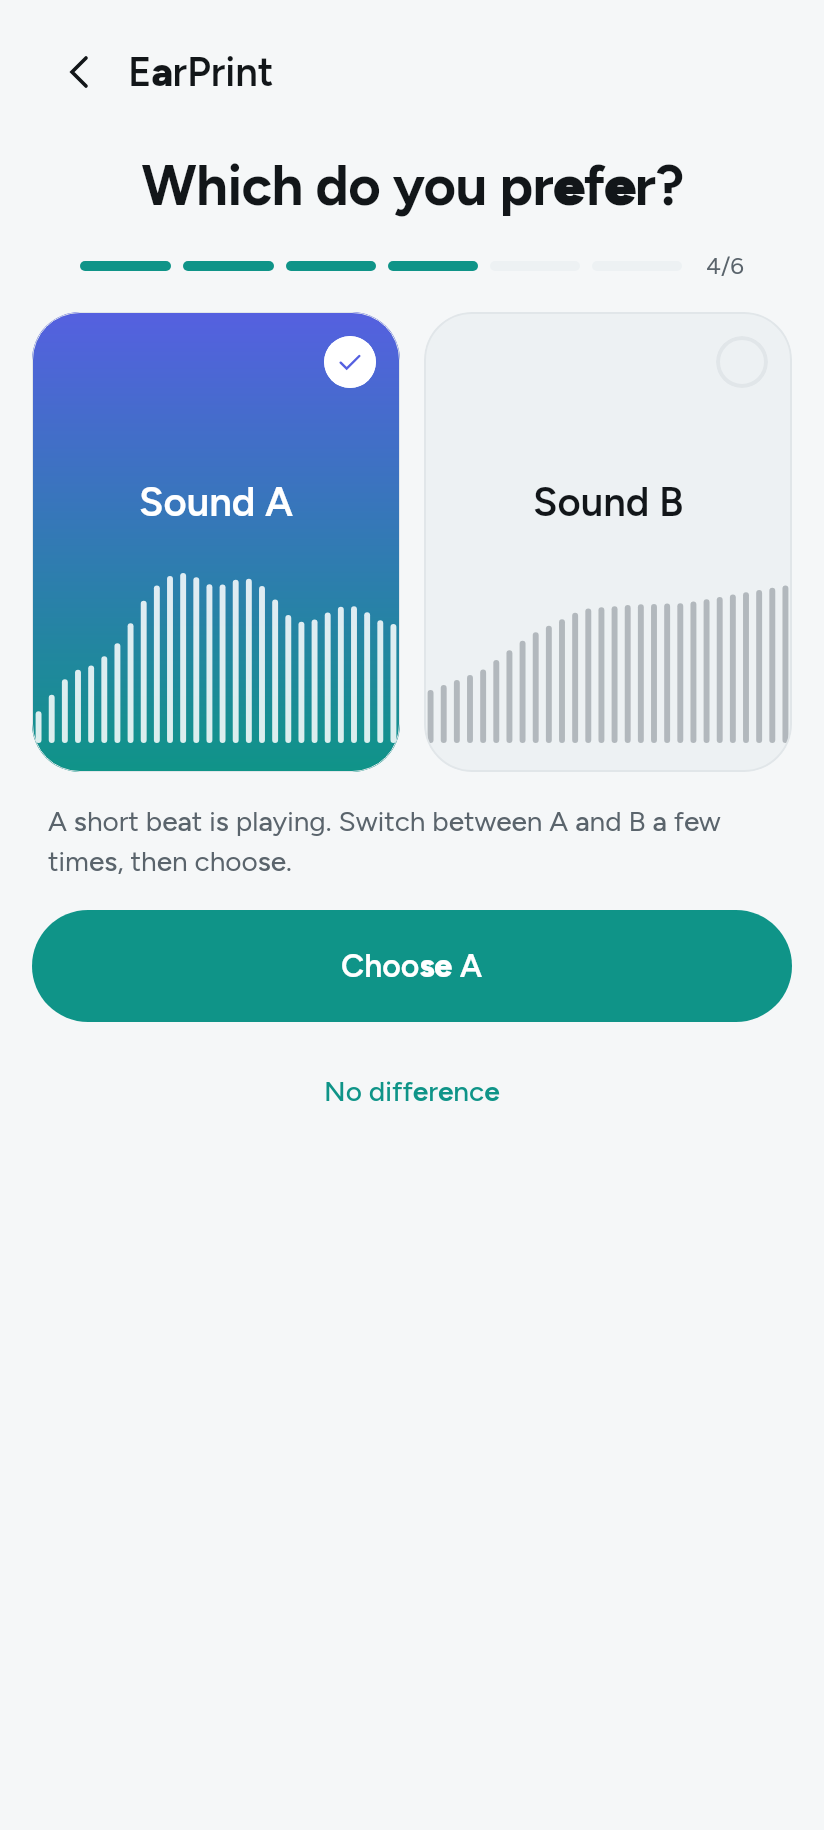
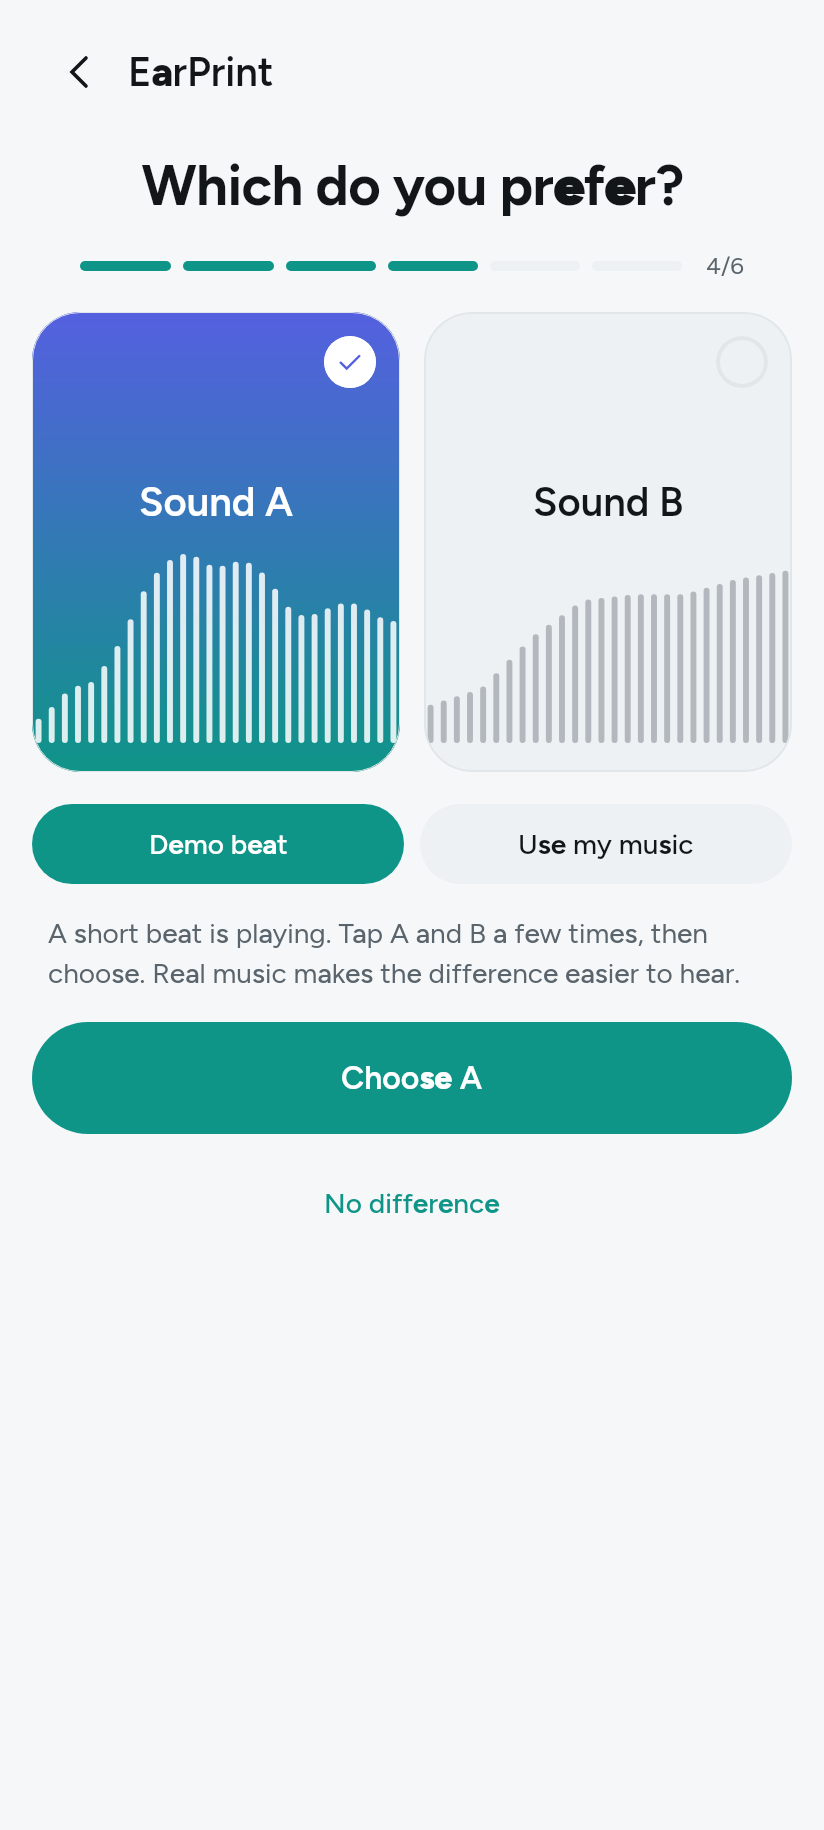
EarPrint: Both ears during the beeps, a choice of the demo beat or your own music in any app for the taste rounds, one line on the result when both ears match; the 60 dB quiet limit Soundcore uses

diff --git a/ui/src/commonMain/kotlin/com/blazify/buds/ui/screens/EarPrintScreen.kt b/ui/src/commonMain/kotlin/com/blazify/buds/ui/screens/EarPrintScreen.kt
@@ -102,9 +102,12 @@ fun EarPrintScreen(state: BudsState, change: (Change) -> Unit, back: () -> Unit,
     // The beat for the taste rounds takes a moment to make, so it is made in the background from the start.
     var beat by remember { mutableStateOf<ShortArray?>(null) }
     LaunchedEffect(Unit) { beat = withContext(Dispatchers.Default) { TestSounds.demo() } }
-    LaunchedEffect(stage == Stage.Taste || stage == Stage.Result, beat) {
+    // The taste rounds play over the beat, or over the person's own music playing in any app.
+    var ownMusic by remember { mutableStateOf(false) }
+    LaunchedEffect(stage == Stage.Taste || stage == Stage.Result, beat, ownMusic) {
         val samples = beat
-        if ((stage == Stage.Taste || stage == Stage.Result) && samples != null) sound.play(samples, loop = true)
+        if (ownMusic) sound.stop()
+        else if ((stage == Stage.Taste || stage == Stage.Result) && samples != null) sound.play(samples, loop = true)
     }
     // For the readme pictures: jump straight to a later step with made-up answers.
     remember {
@@ -180,12 +183,12 @@ fun EarPrintScreen(state: BudsState, change: (Change) -> Unit, back: () -> Unit,
                             val now = hearing.current() ?: return@LaunchedEffect
                             delay(500)
                             listening = true
-                            sound.play(TestSounds.beeps(now.hz, now.level, now.ear == Ear.Left, now.ear == Ear.Right), loop = false)
+                            sound.play(TestSounds.beeps(now.hz, now.level, now.ear != Ear.Right, now.ear != Ear.Left), loop = false)
                             delay(1500)
                             listening = false
                         }
                         if (step != null) {
-                            Text(if (step.ear == Ear.Left) "Left ear" else "Right ear", style = MaterialTheme.typography.titleLarge, color = palette.text)
+                            Text(when (step.ear) { Ear.Left -> "Left ear"; Ear.Right -> "Right ear"; null -> "Both ears" }, style = MaterialTheme.typography.titleLarge, color = palette.text)
                             Text("Pitch ${(step.number - 1) % EarPrint.TEST_PITCHES.size + 1} of ${EarPrint.TEST_PITCHES.size}", style = MaterialTheme.typography.labelMedium, color = palette.muted)
                             // Every answer lights a block; a pitch that is done fills its group of four.
                             val blocks = 4
@@ -239,7 +242,12 @@ fun EarPrintScreen(state: BudsState, change: (Change) -> Unit, back: () -> Unit,
                                 SoundCard("Sound A", round.a, pick != true, Modifier.weight(1f)) { pick = false }
                                 SoundCard("Sound B", round.b, pick == true, Modifier.weight(1f)) { pick = true }
                             }
-                            Hint("A short beat is playing. Switch between A and B a few times, then choose.", Modifier.padding(horizontal = 8.dp))
+                            MusicChoice(ownMusic) { ownMusic = it }
+                            Hint(
+                                if (ownMusic) "Play a song you know in any app. Tap A and B a few times while it plays, then choose."
+                                else "A short beat is playing. Tap A and B a few times, then choose. Real music makes the difference easier to hear.",
+                                Modifier.padding(horizontal = 8.dp),
+                            )
                             BigButton(if (pick == true) "Choose B" else "Choose A", null) {
                                 test.choose(pick == true)
                                 if (test.done) stage = Stage.Result
@@ -269,15 +277,19 @@ fun EarPrintScreen(state: BudsState, change: (Change) -> Unit, back: () -> Unit,
                         Panel {
                             TwoEarCurve(finalLeft, finalRight)
                             Row(Modifier.fillMaxWidth().padding(top = 8.dp), horizontalArrangement = Arrangement.spacedBy(16.dp, Alignment.CenterHorizontally)) {
-                                Legend(palette.accent, "Left ear")
-                                Legend(palette.cancelling, "Right ear")
+                                if (EarPrint.same(finalLeft, finalRight)) {
+                                    Legend(palette.cancelling, "Your EarPrint, both ears")
+                                } else {
+                                    Legend(palette.accent, "Left ear")
+                                    Legend(palette.cancelling, "Right ear")
+                                }
                             }
                         }
                         Row(Modifier.fillMaxWidth(), horizontalArrangement = Arrangement.spacedBy(8.dp)) {
                             Choice("Original", !comparing, Modifier.weight(1f), centered = true) { comparing = false }
                             Choice("EarPrint", comparing, Modifier.weight(1f), centered = true) { comparing = true }
                         }
-                        Hint("Switch between them while the beat plays, or play your own music.", Modifier.padding(horizontal = 8.dp))
+                        MusicChoice(ownMusic) { ownMusic = it }
                         BigButton("Keep my EarPrint", BudsIcons.Check) {
                             change(Change.EarPrintSave(finalLeft, finalRight, kotlin.time.Clock.System.now().epochSeconds))
                             saved = true
@@ -512,5 +524,14 @@ private fun NoiseBar(level: Double?, modifier: Modifier) {
             val text = measurer.measure("$db", labelStyle)
             drawText(text, topLeft = Offset(0f, (y - text.size.height / 2).coerceIn(0f, size.height - text.size.height)))
         }
+    }
+}
+
+/** The beat or the person's own music, for hearing the difference. */
+@Composable
+private fun MusicChoice(own: Boolean, pick: (Boolean) -> Unit) {
+    Row(Modifier.fillMaxWidth(), horizontalArrangement = Arrangement.spacedBy(8.dp)) {
+        Choice("Demo beat", !own, Modifier.weight(1f), centered = true) { pick(false) }
+        Choice("Use my music", own, Modifier.weight(1f), centered = true) { pick(true) }
     }
 }

diff --git a/android/src/main/kotlin/com/blazify/buds/android/AndroidPlatform.kt b/android/src/main/kotlin/com/blazify/buds/android/AndroidPlatform.kt
@@ -145,6 +145,7 @@ class AndroidPlatform(
                 val got = record.read(chunk, 0, chunk.size)
                 if (got > 0) {
                     val level = noise.level(chunk, got, rate)
+                    android.util.Log.d("BlazbudsRoom", "level %.1f".format(level))
                     main.post { if (going.get()) onLevel(level) }
                 }
             }
